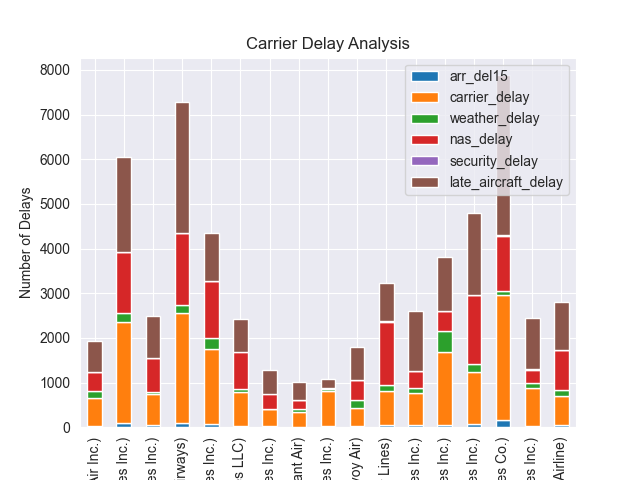
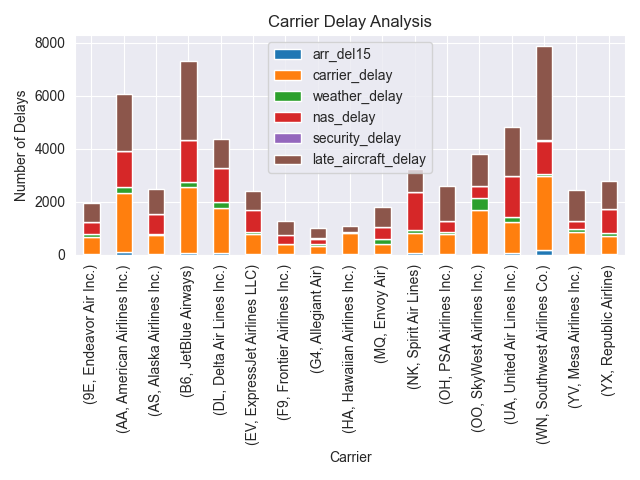
Updated code

Changed region(s): [[0.0, 0.0312, 0.9688, 1.0], [0.9375, 0.5625, 0.9688, 0.8438], [0.0625, 0.0625, 0.125, 0.1562]]

diff --git a/Code.py b/Code.py
@@ -8,7 +8,6 @@ sns.set_style("darkgrid")
 
 y = df["arr_flights"]
 x = df["arr_del15"]
-delays  = ["nas_ct","security_ct","late_aircraft_ct", "weather_ct","carrier_ct"]
 #fig, ax= plt.subplots(nrows=1, ncols=2, figsize=(10,4))
 
 #Graph on comparison between 2019 and 2020 delays
@@ -48,11 +47,22 @@ print(columns[2:])
 #Works out mean performance of each type of delau, reset_index to negate issues with multiindexes and issues with merging
 carrier_performance = performance_df.groupby(['carrier', 'carrier_name']).mean()
 #plot graph by carrier name 
-#carrier_performance.plot(x='carrier_name', kind='bar', stacked=True)
 carrier_performance.plot(kind='bar', stacked=True)
 plt.xlabel('Carrier')
 sns.set_palette("magma")
 plt.ylabel('Number of Delays')
 plt.title('Carrier Delay Analysis')
-plt.legend(loc='upper right')
+
+plt.tight_layout()
+
 plt.show()
+
+#Proportion of flights
+proportional_df = df["carrier", "carrier_name", "carrier_ct", "weather_ct", "nas_ct", "security_ct", "late_aircraft_ct"]
+delays = ["carrier_ct", "weather_ct", "nas_ct", "security_ct", "late_aircraft_ct"]
+print(delays)
+print(proportional_df[delays])
+proportional_df[delays].divide(df["arr_flights"],axis="rows").multiply(100)
+print(proportional_df)
+
+proportionalPerformance = proportional_df.groupby(['carrier', 'carrier_name']).mean()
